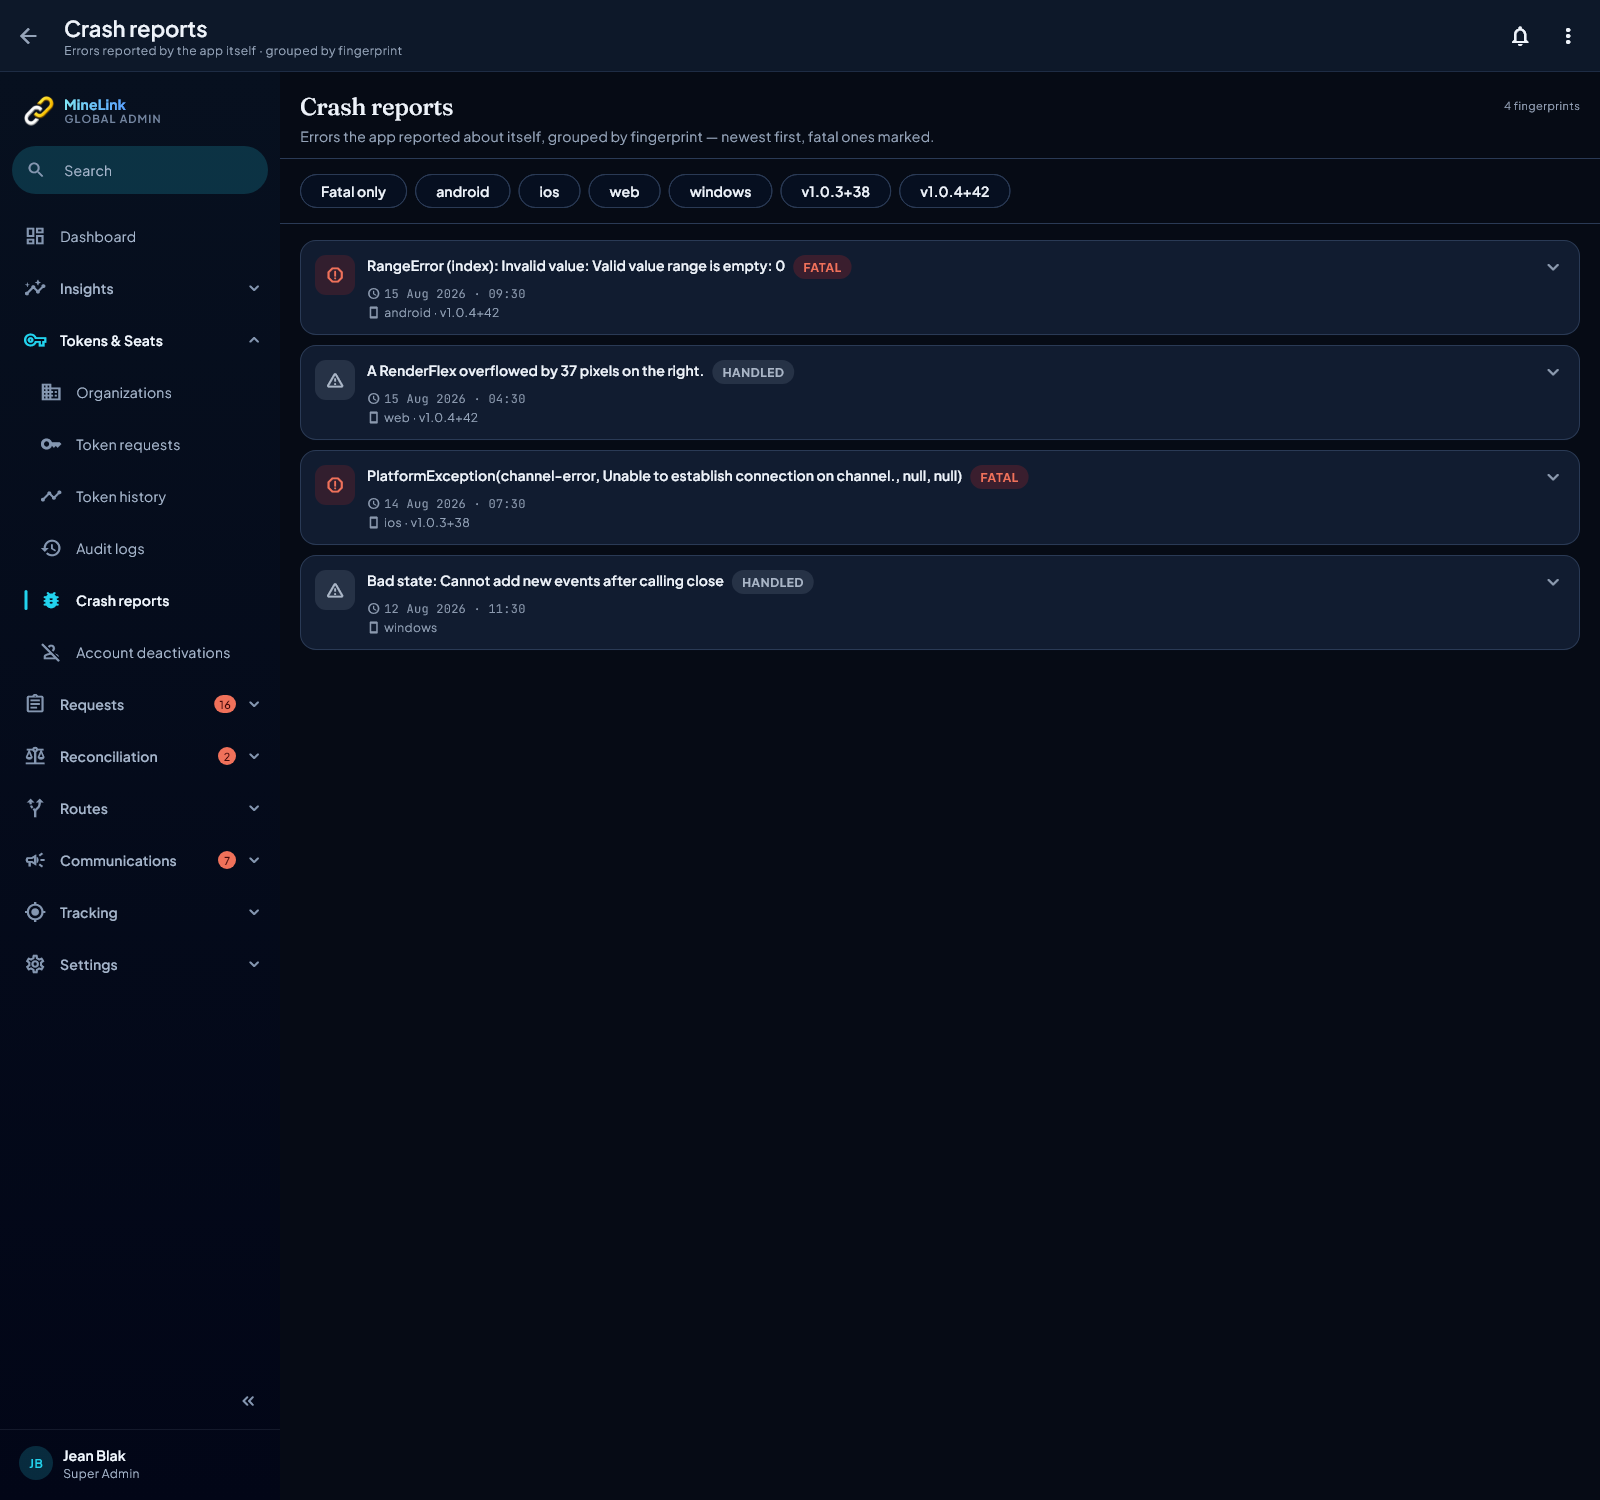
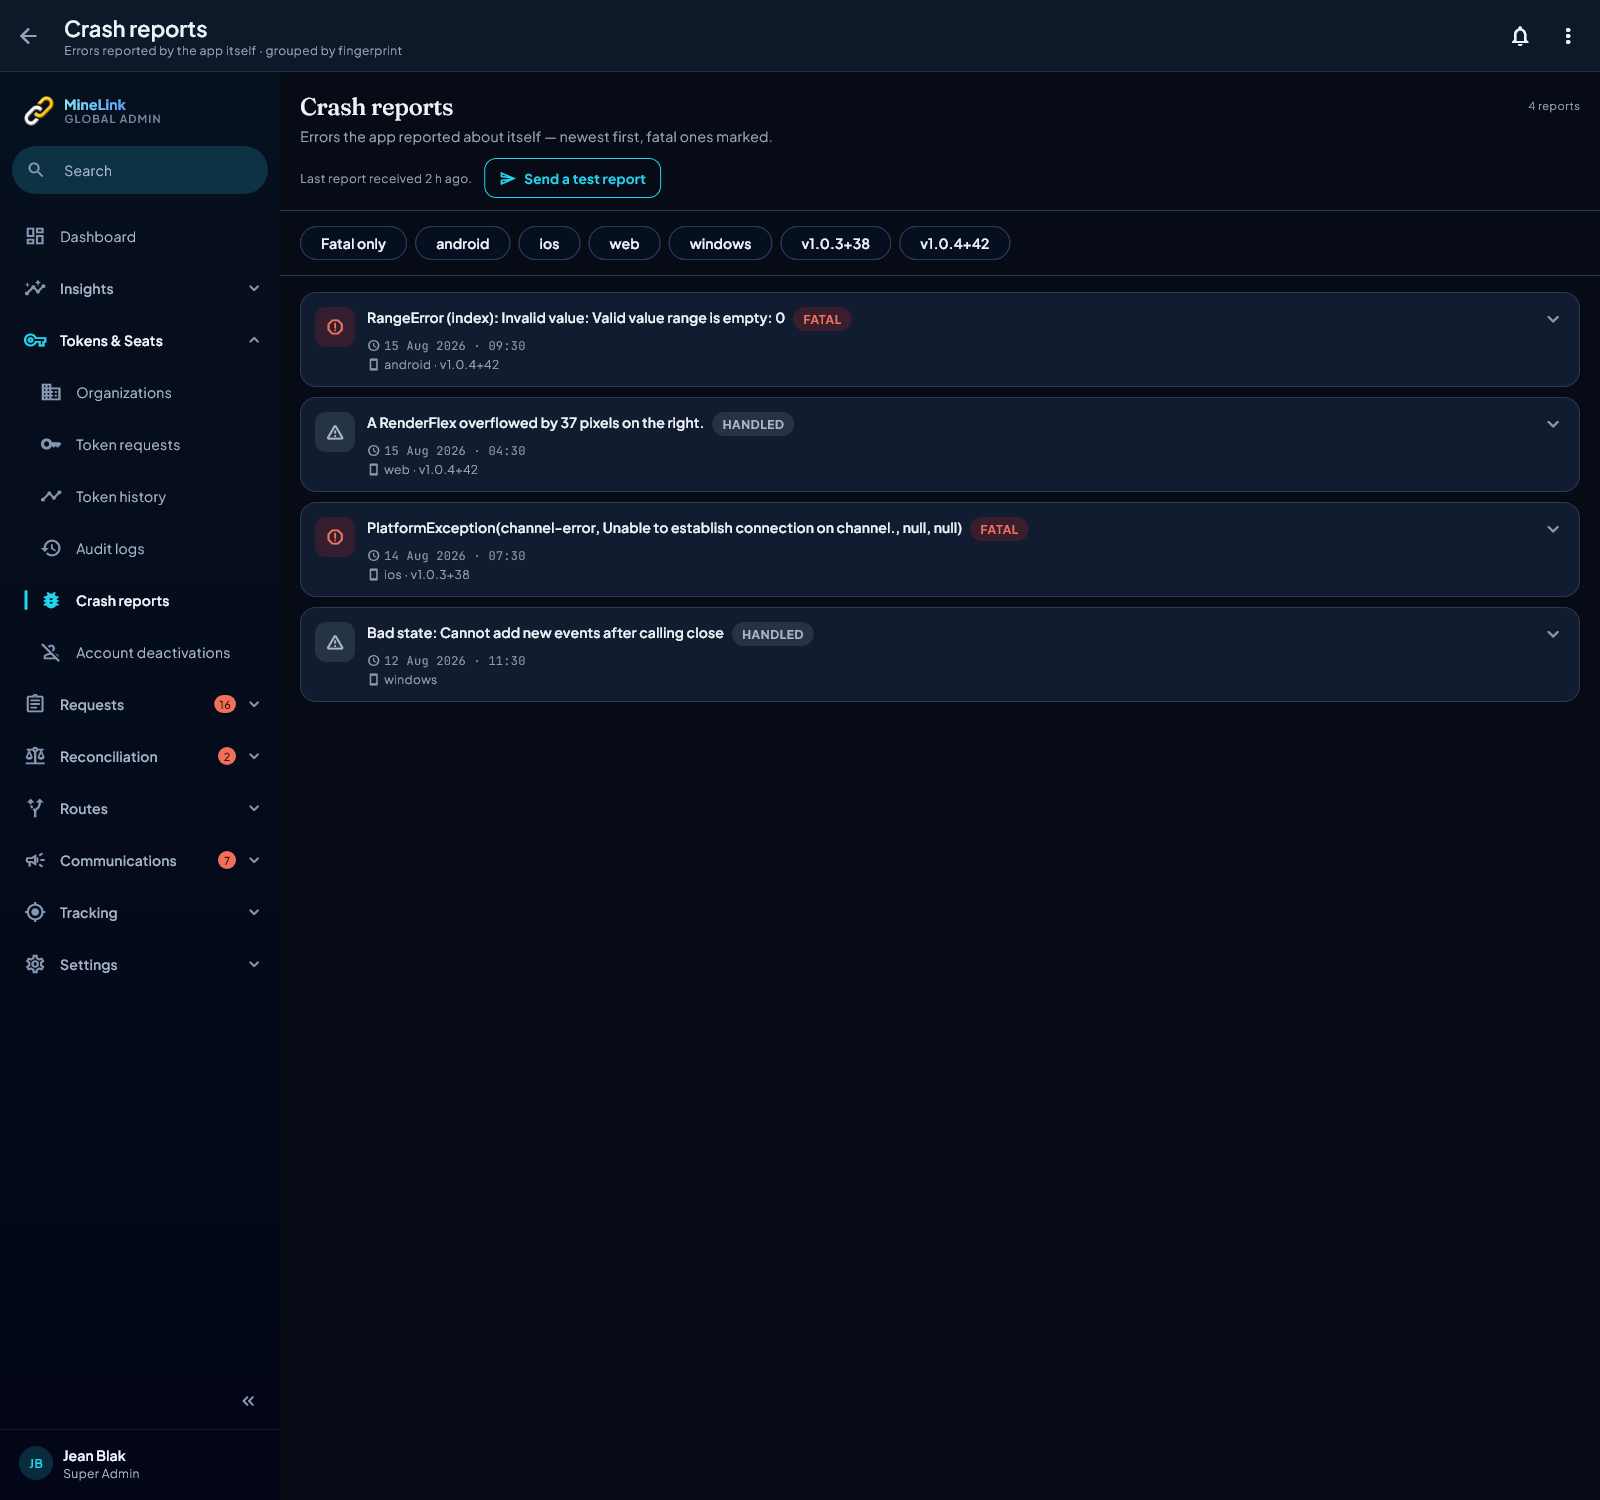
fix(crash reports): the real count, when the last one arrived, and a one-tap test
The header showed "500 fingerprints" (the page length) over 9,243 reports. It
now gives the exact total, says when the last report arrived, and "Send a
test report" pushes one through the app's own reporter and confirms it
reached the server - so a silent stop is visible. Investigation of the gap
after 17 Oct in ADMIN-MOBILE-TODO.md 5.5.

Changed region(s): [[0.1875, 0.092, 1.0, 0.4907]]

diff --git a/lib/features/super_admin/screens/crash_reports_screen.dart b/lib/features/super_admin/screens/crash_reports_screen.dart
@@ -6,6 +6,8 @@ import 'package:flutter_application_1/core/utils/friendly_error.dart';
 import 'package:flutter_application_1/core/design/components/ml_components.dart';
 import 'package:flutter_application_1/features/super_admin/data/models/models.dart';
 import 'package:flutter_application_1/features/super_admin/providers/super_admin_providers.dart';
+import 'package:flutter_application_1/core/telemetry/crash_reporter.dart';
+import 'package:intl/intl.dart';
 
 /// Super-global admin console: read-only viewer over `public.crash_reports`
 /// (Task 2 created the table, Task 3 fills it from `SupabaseReportingSink`).
@@ -55,6 +57,61 @@ class _CrashReportsScreenState extends ConsumerState<CrashReportsScreen> {
     return out;
   }
 
+  /// Pushes one report through the app's real reporter — the same sink every
+  /// crash uses — and checks that it reached the table.
+  ///
+  /// Nothing arrived after 17 Oct, and nothing on this screen could tell a
+  /// quiet app from a broken pipeline (admin phone audit, 2026-10-24). The
+  /// table accepted a signed-in user's insert when probed, the reporter is
+  /// wired at start-up, and the last reports were a since-fixed storm — so
+  /// the quiet looks genuine, but this button is how anyone can prove it.
+  Future<void> _sendTestReport() async {
+    final messenger = ScaffoldMessenger.of(context);
+    // The time makes the message unique, so finding it proves THIS report
+    // arrived, not an earlier test.
+    final message = 'Test report sent from the Crash reports screen at '
+        '${DateFormat('HH:mm:ss').format(MlTime.now())} — not an error.';
+    crashReporter.recordError(message, StackTrace.current,
+        context: 'test report');
+    messenger.showSnackBar(
+        const SnackBar(content: Text('Test report sent — checking it arrived…')));
+    final filters = (fatalOnly: false, platform: null, appVersion: null);
+    for (var attempt = 0; attempt < 5; attempt++) {
+      await Future<void>.delayed(const Duration(seconds: 2));
+      if (!mounted) return;
+      // A failed read is "not seen yet", never an escaped error: the screen
+      // must always end by saying whether the report arrived.
+      List<CrashReportRow> rows;
+      try {
+        rows = await ref
+            .read(superAdminRepositoryProvider)
+            .getCrashReports(limit: 5);
+      } catch (_) {
+        rows = const <CrashReportRow>[];
+      }
+      final arrived = rows.any((r) => r.error.startsWith(message));
+      if (arrived) {
+        ref.invalidate(crashReportsProvider(filters));
+        ref.invalidate(crashReportsProvider(
+            (fatalOnly: _fatalOnly, platform: _platform, appVersion: _appVersion)));
+        ref.invalidate(crashReportTotalProvider);
+        messenger
+          ..hideCurrentSnackBar()
+          ..showSnackBar(const SnackBar(
+              content: Text('Test report received — crash reporting works.')));
+        return;
+      }
+    }
+    if (!mounted) return;
+    messenger
+      ..hideCurrentSnackBar()
+      ..showSnackBar(const SnackBar(
+        backgroundColor: MlTokens.red600,
+        content: Text('The test report did not arrive within 10 seconds. '
+            'Crash reporting from this device is not reaching the server.'),
+      ));
+  }
+
   void _onExpand(String id) =>
       setState(() => _expandedId = _expandedId == id ? null : id);
 
@@ -77,9 +134,10 @@ class _CrashReportsScreenState extends ConsumerState<CrashReportsScreen> {
       );
     }
 
-    final rowsAsync = ref.watch(crashReportsProvider(
-      (fatalOnly: _fatalOnly, platform: _platform, appVersion: _appVersion),
-    ));
+    final filters =
+        (fatalOnly: _fatalOnly, platform: _platform, appVersion: _appVersion);
+    final rowsAsync = ref.watch(crashReportsProvider(filters));
+    final total = ref.watch(crashReportTotalProvider(filters)).valueOrNull;
     final facets = ref.watch(crashReportFacetsProvider).valueOrNull;
 
     return rowsAsync.when(
@@ -91,6 +149,8 @@ class _CrashReportsScreenState extends ConsumerState<CrashReportsScreen> {
       ),
       data: (rows) => _CrashReportsBody(
         rows: rows,
+        total: total,
+        onSendTest: _sendTestReport,
         platforms: (facets?.platforms.toList() ?? const <String>[])..sort(),
         appVersions: (facets?.appVersions.toList() ?? const <String>[])
           ..sort(),
@@ -113,6 +173,13 @@ class _CrashReportsScreenState extends ConsumerState<CrashReportsScreen> {
 /// (the live route) or the caller's (tests wrap it in one directly).
 class _CrashReportsBody extends StatelessWidget {
   final List<CrashReportRow> rows;
+
+  /// Every report matching the filters (the list stops at the newest 500).
+  final int? total;
+
+  /// "Send a test report"; null where there is no live reporter (tests that
+  /// inject rows).
+  final Future<void> Function()? onSendTest;
   final List<String> platforms;
   final List<String> appVersions;
   final bool fatalOnly;
@@ -126,6 +193,8 @@ class _CrashReportsBody extends StatelessWidget {
 
   const _CrashReportsBody({
     required this.rows,
+    this.total,
+    this.onSendTest,
     required this.platforms,
     required this.appVersions,
     required this.fatalOnly,
@@ -152,10 +221,42 @@ class _CrashReportsBody extends StatelessWidget {
           child: MlPageHeader(
             title: 'Crash reports',
             description:
-                'Errors the app reported about itself, grouped by '
-                'fingerprint — newest first, fatal ones marked.',
-            meta: mlCount(rows.length, 'fingerprint', 'fingerprints'),
+                'Errors the app reported about itself — newest first, fatal '
+                'ones marked.',
+            // The real number. It said "500 fingerprints": the length of the
+            // newest-500 page, under 9,243 reports.
+            meta: total == null || total! <= rows.length
+                ? mlCount(total ?? rows.length, 'report')
+                : '${NumberFormat.decimalPattern().format(total)} reports '
+                    '· newest ${rows.length} shown',
             padding: EdgeInsets.zero,
+          ),
+        ),
+        // When the last one arrived, so a silence is visible — and a way to
+        // check the silence is real.
+        Padding(
+          padding: const EdgeInsets.fromLTRB(20, 0, 20, 12),
+          child: Wrap(
+            spacing: 12,
+            runSpacing: 8,
+            crossAxisAlignment: WrapCrossAlignment.center,
+            children: [
+              Text(
+                rows.isEmpty
+                    ? 'No reports received.'
+                    : 'Last report received ${MlTime.ago(rows.first.at)}.',
+                style: context.mlText.bodySmall.copyWith(
+                  color: MlSemantic.of(context).textMuted,
+                ),
+              ),
+              if (onSendTest != null)
+                MlButton.outline(
+                  label: 'Send a test report',
+                  icon: Icons.send_outlined,
+                  compact: true,
+                  onPressed: () => onSendTest!(),
+                ),
+            ],
           ),
         ),
         const Divider(height: 1),

diff --git a/test/features/super_admin/crash_reports_count_test.dart b/test/features/super_admin/crash_reports_count_test.dart
@@ -1,0 +1,128 @@
+// Crash reports (admin phone audit, 2026-10-24): the header said "500
+// fingerprints" \u2014 the length of the newest-500 page \u2014 over 9,243 reports,
+// and nothing showed that nothing had arrived since 17 Oct.
+import 'package:flutter/material.dart';
+import 'package:flutter_riverpod/flutter_riverpod.dart';
+import 'package:flutter_test/flutter_test.dart';
+import 'package:supabase_flutter/supabase_flutter.dart';
+
+import 'package:flutter_application_1/core/telemetry/crash_reporter.dart';
+import 'package:flutter_application_1/core/theme/app_theme.dart';
+import 'package:flutter_application_1/features/super_admin/data/models/models.dart';
+import 'package:flutter_application_1/features/super_admin/data/repositories/super_admin_repository.dart';
+import 'package:flutter_application_1/features/super_admin/providers/super_admin_providers.dart';
+import 'package:flutter_application_1/features/super_admin/screens/crash_reports_screen.dart';
+
+class _Capture implements ReportingSink {
+  final reports = <CrashReport>[];
+  @override
+  void report(CrashReport r) => reports.add(r);
+}
+
+/// A server that has received whatever the capture sink was given.
+class _EchoRepo extends SuperAdminRepository {
+  _EchoRepo(this.capture)
+      : super(SupabaseClient('http://crash.test', 'anon',
+            authOptions: const AuthClientOptions(autoRefreshToken: false)));
+  final _Capture capture;
+  @override
+  Future<List<CrashReportRow>> getCrashReports({
+    bool fatalOnly = false,
+    String? platform,
+    String? appVersion,
+    int limit = 500,
+  }) async => [
+        for (final r in capture.reports)
+          CrashReportRow.fromJson({
+            'id': 'echo', 'user_id': null, 'at': r.at.toUtc().toIso8601String(),
+            'platform': 'android', 'app_version': '1.0.0', 'error': '${r.error}',
+            'stack': null, 'fatal': false,
+            'created_at': r.at.toUtc().toIso8601String(),
+          }),
+      ];
+}
+
+CrashReportRow _row(int i) => CrashReportRow.fromJson({
+      'id': 'r$i',
+      'user_id': null,
+      'at': DateTime.utc(2026, 10, 17, 17, 43).subtract(Duration(minutes: i)).toIso8601String(),
+      'platform': 'android',
+      'app_version': '1.0.0',
+      'error': 'Duplicate GlobalKey detected in widget tree.',
+      'stack': null,
+      'fatal': false,
+      'created_at': DateTime.utc(2026, 10, 17, 17, 43).toIso8601String(),
+    });
+
+Future<void> _pump(WidgetTester tester,
+    {required int shown, required int total, SuperAdminRepository? repo}) async {
+  tester.view.physicalSize = const Size(1280, 900);
+  tester.view.devicePixelRatio = 1.0;
+  addTearDown(tester.view.reset);
+  await tester.pumpWidget(ProviderScope(
+    overrides: [
+      crashReportsProvider.overrideWith((ref, f) async => [for (var i = 0; i < shown; i++) _row(i)]),
+      crashReportTotalProvider.overrideWith((ref, f) async => total),
+      crashReportFacetsProvider
+          .overrideWith((ref) async => (platforms: {'android'}, appVersions: {'1.0.0'})),
+      if (repo != null) superAdminRepositoryProvider.overrideWithValue(repo),
+    ],
+    child: MaterialApp(
+        theme: AppTheme.darkTheme, home: const Scaffold(body: CrashReportsScreen())),
+  ));
+  await tester.pump();
+  await tester.pump();
+}
+
+void main() {
+  testWidgets('the header gives the real total, and says the list is the newest',
+      (tester) async {
+    await _pump(tester, shown: 500, total: 9243);
+    expect(find.text('9,243 reports \u00b7 newest 500 shown'), findsOneWidget);
+    expect(find.textContaining('fingerprint'), findsNothing);
+  });
+
+  testWidgets('a short list says its own count', (tester) async {
+    await _pump(tester, shown: 3, total: 3);
+    expect(find.text('3 reports'), findsOneWidget);
+  });
+
+  testWidgets('it says when the last report arrived', (tester) async {
+    await _pump(tester, shown: 3, total: 3);
+    expect(find.textContaining('Last report received'), findsOneWidget);
+  });
+
+  testWidgets('the test button sends through the app\u2019s own reporter',
+      (tester) async {
+    final capture = _Capture();
+    final previous = crashReporter.sink;
+    crashReporter.useSink(capture);
+    addTearDown(() => crashReporter.useSink(previous));
+    await _pump(tester, shown: 3, total: 3);
+    await tester.tap(find.text('Send a test report'));
+    await tester.pump();
+    expect(capture.reports, hasLength(1));
+    expect(capture.reports.single.context, 'test report');
+    expect('${capture.reports.single.error}', startsWith('Test report sent from the Crash reports screen'));
+    // Let the arrival check run out (no server in a test) and say so.
+    for (var i = 0; i < 6; i++) {
+      await tester.pump(const Duration(seconds: 2));
+    }
+    expect(find.textContaining('did not arrive'), findsOneWidget);
+  });
+
+  testWidgets('and when the server has it, the screen says reporting works',
+      (tester) async {
+    final capture = _Capture();
+    final previous = crashReporter.sink;
+    crashReporter.useSink(capture);
+    addTearDown(() => crashReporter.useSink(previous));
+    await _pump(tester, shown: 3, total: 3, repo: _EchoRepo(capture));
+    await tester.tap(find.text('Send a test report'));
+    await tester.pump();
+    await tester.pump(const Duration(seconds: 2));
+    await tester.pump();
+    expect(find.textContaining('crash reporting works'), findsOneWidget);
+    await tester.pump(const Duration(seconds: 10));
+  });
+}

diff --git a/lib/features/super_admin/data/repositories/super_admin_repository.dart b/lib/features/super_admin/data/repositories/super_admin_repository.dart
@@ -831,6 +831,23 @@ class SuperAdminRepository {
         .toList();
   }
 
+  /// How many crash reports match the filters — the real figure, not the
+  /// length of [getCrashReports]' newest-500 page. The console showed "500
+  /// fingerprints" against 9,243 rows (admin phone audit, 2026-10-24).
+  Future<int> getCrashReportTotal({
+    bool fatalOnly = false,
+    String? platform,
+    String? appVersion,
+  }) async {
+    var query = _client.from('crash_reports').select('id');
+    if (fatalOnly) query = query.eq('fatal', true);
+    if (platform != null) query = query.eq('platform', platform);
+    if (appVersion != null) query = query.eq('app_version', appVersion);
+    // One row of payload; the total comes back in the count header.
+    final res = await query.limit(1).count(CountOption.exact);
+    return res.count;
+  }
+
   /// Distinct `platform` / `app_version` values across ALL crash reports —
   /// deliberately independent of the `fatalOnly`/`platform`/`appVersion`
   /// filters applied in [getCrashReports], so the console's facet chips

diff --git a/lib/features/super_admin/providers/super_admin_providers.dart b/lib/features/super_admin/providers/super_admin_providers.dart
@@ -149,6 +149,17 @@ final crashReportsProvider = FutureProvider.family<List<CrashReportRow>,
   },
 );
 
+/// The real number of crash reports for the same filters as
+/// [crashReportsProvider], whose list stops at the newest 500.
+final crashReportTotalProvider = FutureProvider.family<int,
+    ({bool fatalOnly, String? platform, String? appVersion})>(
+  (ref, f) => ref.watch(superAdminRepositoryProvider).getCrashReportTotal(
+        fatalOnly: f.fatalOnly,
+        platform: f.platform,
+        appVersion: f.appVersion,
+      ),
+);
+
 /// Distinct platform / app_version values across ALL crash reports, for the
 /// console screen's facet chips — deliberately NOT keyed by the current
 /// filter selection, so the chip list itself never shrinks just because a

diff --git a/test/features/crash_reports_screen_test.dart b/test/features/crash_reports_screen_test.dart
@@ -135,8 +135,10 @@ void main() {
     final title = tester.widget<Text>(
         find.descendant(of: header, matching: find.text('Crash reports')));
     expect(title.style?.fontFamily, MlTokens.fontSerif);
+    // "N reports", not "N fingerprints": the rows are reports, and the
+    // figure is their real count (2026-10-24).
     expect(tester.widget<MlPageHeader>(header).meta,
-        '${_populatedReports.length} fingerprints');
+        '${_populatedReports.length} reports');
   });
 
   testWidgets('expanding a fatal report scrolls its stack trace instead of '

diff --git a/ADMIN-MOBILE-TODO.md b/ADMIN-MOBILE-TODO.md
@@ -404,8 +404,32 @@ Status: ☐ not started · ◐ in progress · ☑ done
     (its harness now gives the window a real size — without one every
     width counted as a phone) 20/20 incl. 360dp at text 2.0 with no
     overflow. Full suite 2,818 passed. Phone goldens updated and viewed.
-- [ ] 5.5 Crash reports: real count instead of a 500 cap; found out why nothing
+- [x] 5.5 Crash reports: real count instead of a 500 cap; found out why nothing
       arrived after 17 Oct and fixed it so reporting can't silently stop again.
+  - Real count: the header said "500 fingerprints" — the length of the
+    newest-500 page. The table holds 9,243 reports. Header now "9,243
+    reports · newest 500 shown" (exact count from the server, same filters).
+  - Why nothing since 17 Oct (checked, not guessed): the server accepts a
+    signed-in user's report (insert probe as jean@, rolled back: 1 row);
+    the policy allows own/anonymous rows; no trigger; the 90-day prune is
+    not involved; the app wires its reporter at start-up and has no switch
+    that stops it except a per-session cap. The last Android reports were a
+    388-row "Duplicate GlobalKey" storm on 17 Oct from a bug since fixed;
+    web stopped 10 Sep. So the quiet looks genuine — but nothing could tell
+    that from a broken pipeline.
+  - So a silence can no longer pass unnoticed: the screen says when the last
+    report arrived, and "Send a test report" pushes one report through the
+    app's real reporter and checks it reached the table — "crash reporting
+    works", or in red that it did not arrive within 10 s. (Found and fixed
+    on the way: a failed read-back escaped as an error and the screen said
+    nothing.) Test reports are labelled "not an error"; the shipping app,
+    which reads the same table, will list any that are sent.
+  - Not done without Jean's OK (needs a new table): an automatic daily
+    check-in per device, so a broken pipeline raises itself without anyone
+    pressing the button.
+  - `crash_reports_count_test.dart` 5/5; crash screen tests 33/33; three
+    crash-report goldens updated (header + the new line — desktop too,
+    as a wrong-number fix like section 3). Full suite green.
 
 ## 6. Additions
 - [ ] 6.1 "Needs your attention" list at the top of the dashboard (pending
